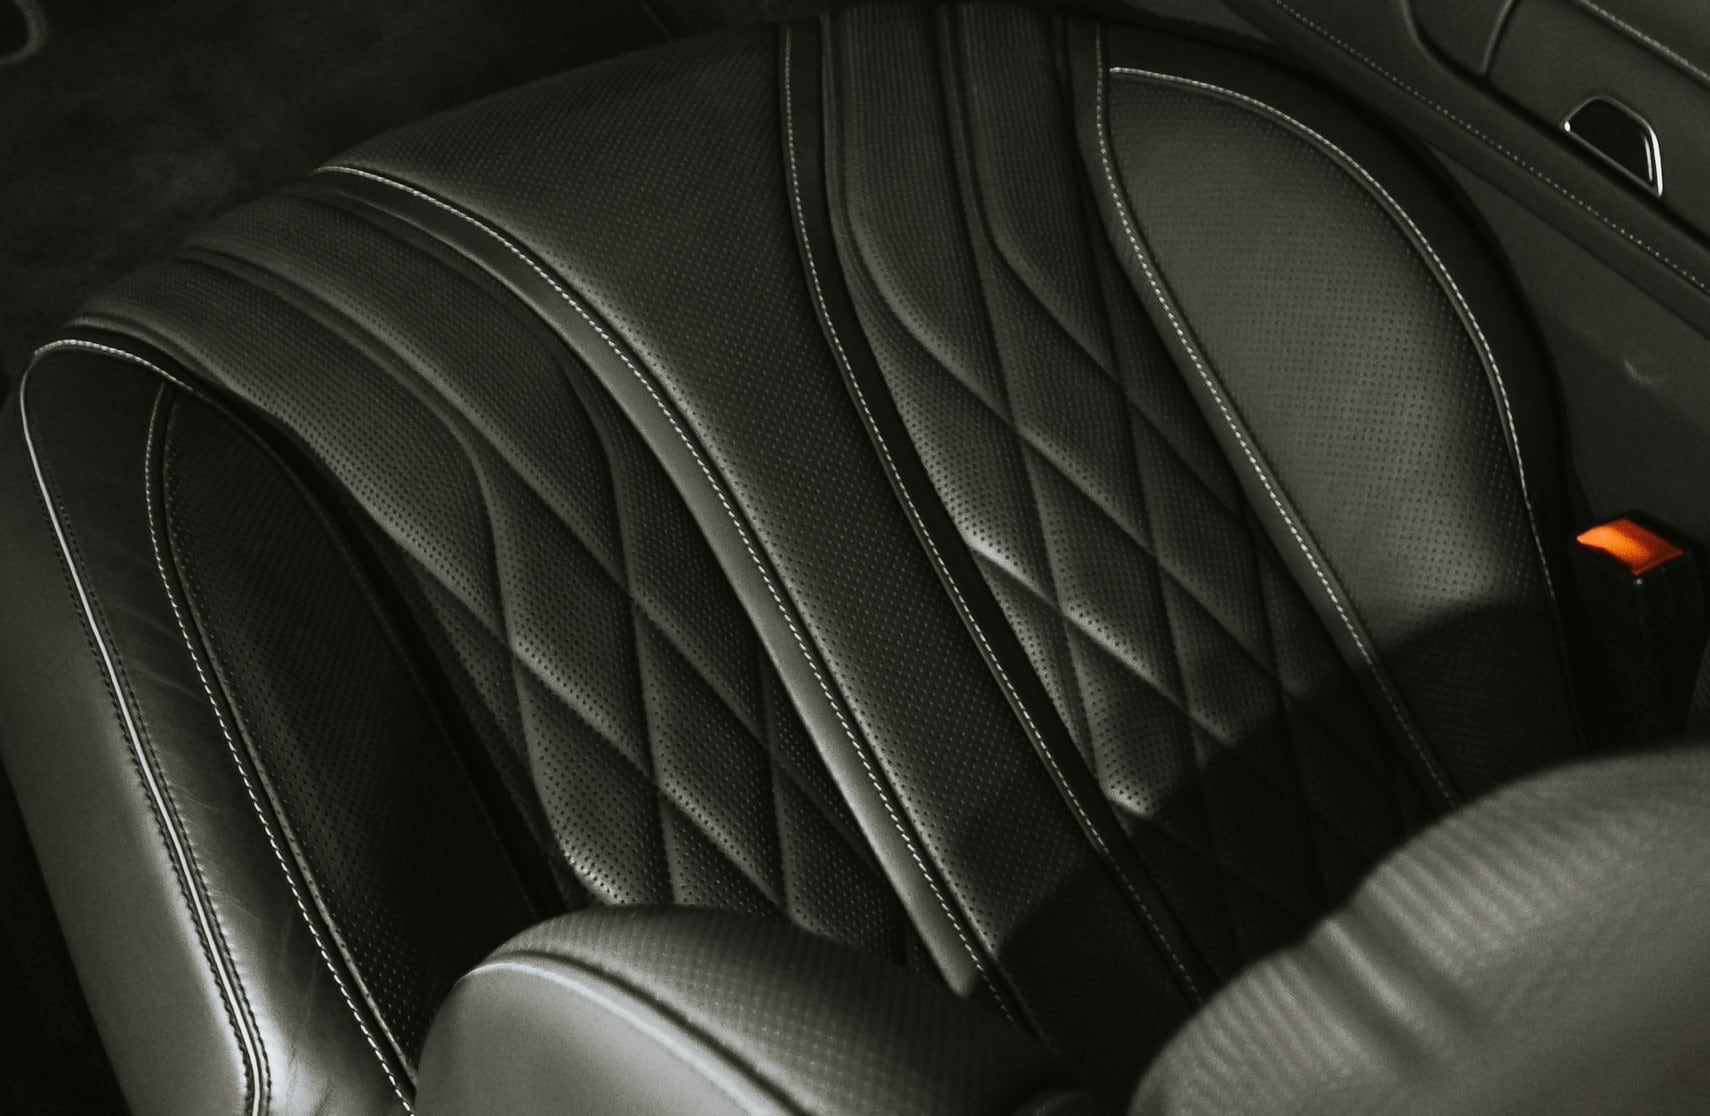
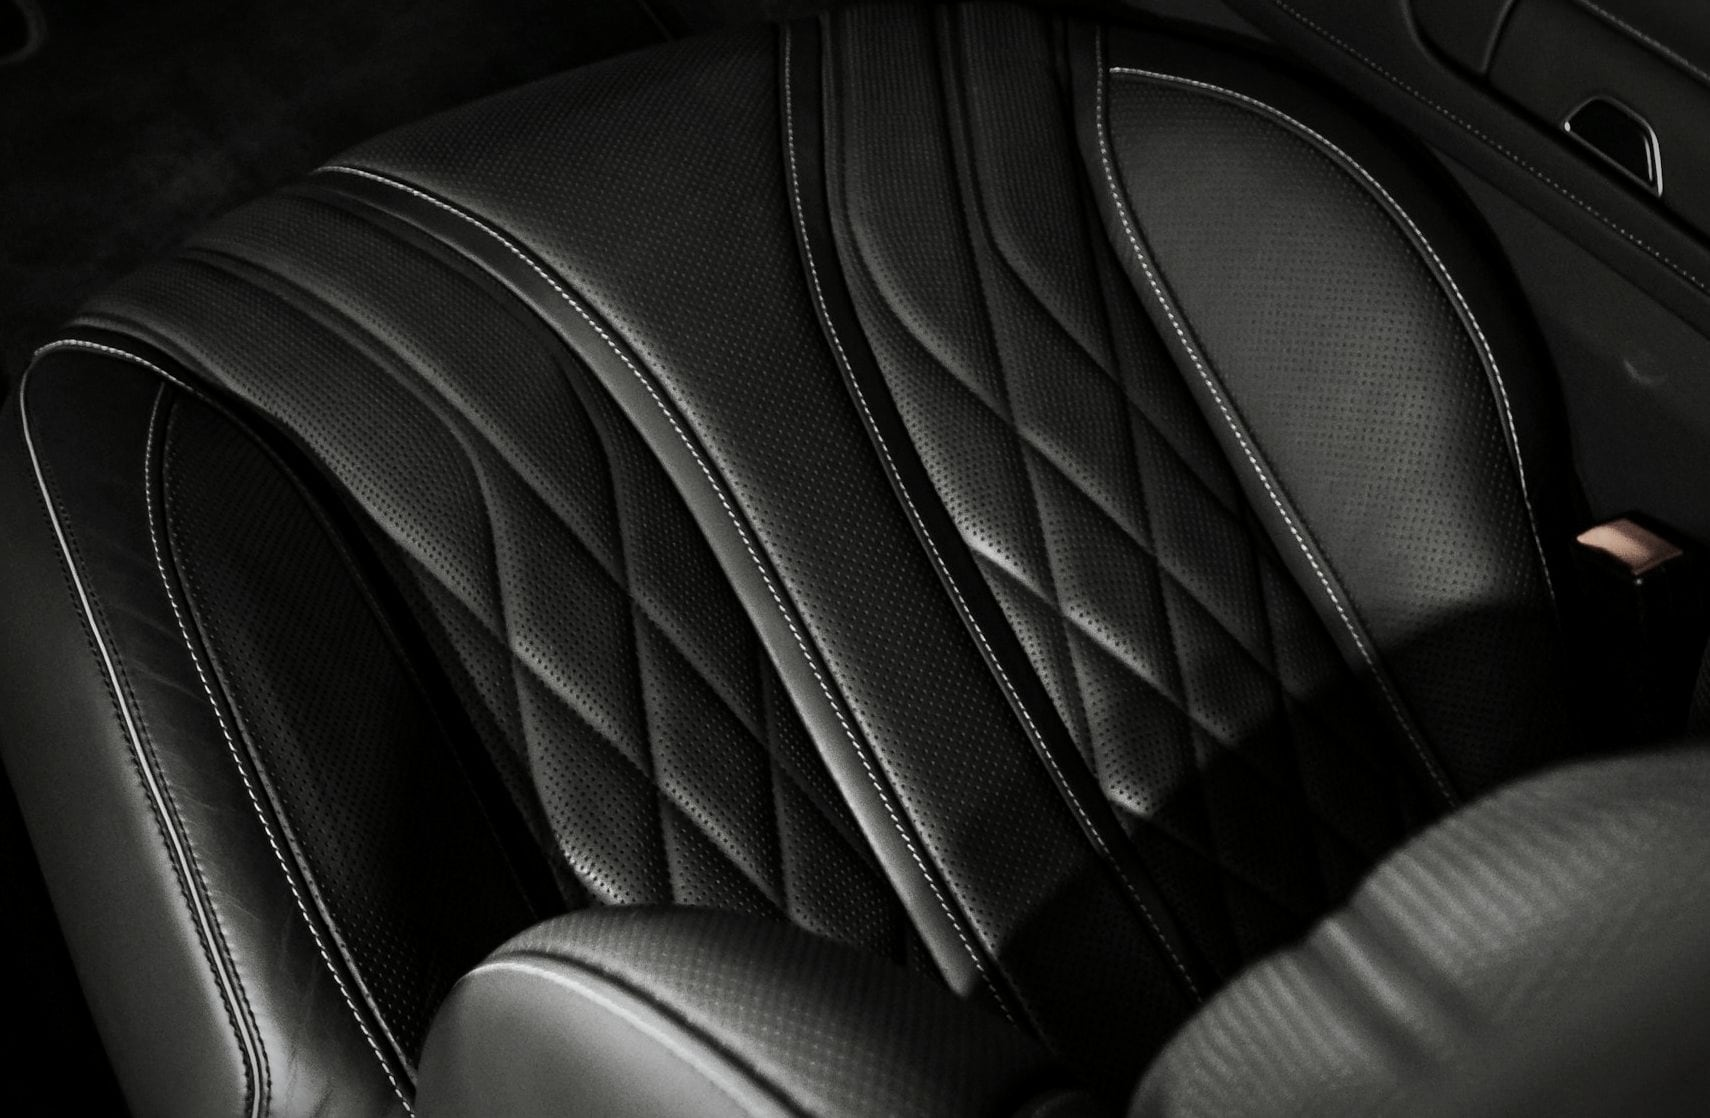
update services and anatomy photo series

diff --git a/src/content/media.ts b/src/content/media.ts
@@ -35,6 +35,12 @@ import trBeforeWide from "@/assets/media/transformation-before-wide.jpg";
 import trAfterTall from "@/assets/media/transformation-after-tall.jpg";
 import trBeforeTall from "@/assets/media/transformation-before-tall.jpg";
 import trSwirls from "@/assets/media/transformation-swirls.webp";
+import svcWash from "@/assets/media/service-wash.jpg";
+import svcCorrection from "@/assets/media/service-correction.jpg";
+import svcCeramic from "@/assets/media/service-ceramic.jpg";
+import svcPpf from "@/assets/media/service-ppf.jpg";
+import svcInterior from "@/assets/media/service-interior.jpg";
+import svcWheels from "@/assets/media/service-wheels.jpg";
 
 export type Media = {
   src: StaticImageData;
@@ -105,21 +111,27 @@ export const media = {
 } satisfies Record<string, Record<string, Media>>;
 
 /** Крупные планы для «Анатомии» — кропы из оригиналов тех же съёмок */
+/**
+ * Крупные планы для «Анатомии». Единая обработка запечена в файлы
+ * (как у фотосерии «Услуг»): цвет ~20%, контраст, виньетка — утилита `grade` не нужна.
+ * Форматы под геометрию кадров: фара 1.84:1, кузов 4:1, колесо 1:1,
+ * салон 1.53:1, отражение ~4.3:1, покрытие — полноэкранный 16:10.
+ */
 export const details = {
   headlight: {
     src: detailHeadlight,
-    alt: "Светодиодная фара BMW M4 крупным планом",
-    credit: "unsplash 1614026480209, кроп",
+    alt: "Светодиодная фара BMW M5 и глянцевый капот крупным планом",
+    credit: "unsplash 1683791738119, кроп",
   },
   body: {
     src: detailBody,
-    alt: "Линия плеча чёрного Mercedes в студийном свете",
-    credit: "unsplash 1485291571150, кроп",
+    alt: "Передок Porsche 911: световая полоса на капоте, фара и грань крыла",
+    credit: "unsplash 1727947347770, кроп",
   },
   wheel: {
     src: detailWheel,
-    alt: "Колёсный диск Mercedes в луче студийного света",
-    credit: "unsplash 1485291571150, кроп",
+    alt: "Колесо Porsche 911 RS: центральная гайка, спицы и суппорт",
+    credit: "unsplash 1637087867447, кроп",
   },
   interior: {
     src: detailInterior,
@@ -128,13 +140,13 @@ export const details = {
   },
   light: {
     src: detailLight,
-    alt: "Сквозная световая полоса и надпись PORSCHE на корме 911 Turbo S",
-    credit: "unsplash 1611651338412, кроп",
+    alt: "Силуэт чёрного Mercedes CLS: полоса студийного света вдоль линии кузова",
+    credit: "unsplash 1485291571150, кроп",
   },
   paint: {
     src: detailPaint,
-    alt: "Капли воды на крышке моторного отсека и заднем стекле Porsche 911",
-    credit: "unsplash 1611651338412, кроп",
+    alt: "Капли воды на тёмном лаке двери и ручке — макро",
+    credit: "unsplash 1550565076, кроп",
   },
 } satisfies Record<string, Media>;
 
@@ -158,3 +170,50 @@ export const transformationMedia = {
   swirls: trSwirls,
   credit: "unsplash 1611821064430",
 };
+
+/**
+ * Фотосерия «04 — Услуги». Единая обработка запечена в файлы:
+ * кадр 4:5 по композиции, приглушённый цвет (~20%), общая виньетка.
+ * Поэтому на эти кадры НЕ нужна утилита `grade`.
+ * position — кадрирование квадратной миниатюры на mobile/tablet
+ * (в кадре 4:5 на desktop изображение показывается целиком).
+ * Новые фото: 1200×1500, та же обработка — иначе серия развалится.
+ */
+export const serviceMedia = {
+  wash: {
+    src: svcWash,
+    alt: "BMW X6 под активной пеной в тёмном моечном боксе",
+    position: "58% 42%",
+    credit: "unsplash 1633014041037",
+  },
+  correction: {
+    src: svcCorrection,
+    alt: "Мастер полирует чёрный кузов, в отражении на панели видны голограммы",
+    position: "50% 30%",
+    credit: "unsplash 1708805282706 (паутина царапин добавлена при обработке)",
+  },
+  ceramic: {
+    src: svcCeramic,
+    alt: "Капли воды собираются в бусины на чёрном лаке после керамики",
+    position: "50% 40%",
+    credit: "unsplash 1608382247609",
+  },
+  ppf: {
+    src: svcPpf,
+    alt: "Нанесение защитной плёнки на фару Mercedes",
+    position: "40% 42%",
+    credit: "unsplash 1632823469850",
+  },
+  interior: {
+    src: svcInterior,
+    alt: "Руль Porsche GT: алькантара, красная строчка, переключатели режимов",
+    position: "40% 34%",
+    credit: "unsplash 1699325565626",
+  },
+  wheels: {
+    src: svcWheels,
+    alt: "Колесо Porsche: карбон-керамический диск, суппорт и центральная гайка",
+    position: "50% 50%",
+    credit: "unsplash 1695270939393",
+  },
+} satisfies Record<string, Media>;

diff --git a/src/content/site.ts b/src/content/site.ts
@@ -2,7 +2,7 @@
  * Тексты и данные сайта. Демонстрационный концепт:
  * контакты — заглушки, без реальных достижений, наград и клиентов.
  */
-import { details, media, type Media } from "./media";
+import { details, media, serviceMedia, type Media } from "./media";
 
 export const site = {
   name: "VANTA",
@@ -120,7 +120,7 @@ export const anatomy = {
       id: "headlight",
       title: "Фара",
       en: "Headlight",
-      source: "BMW M4",
+      source: "BMW M5",
       car: "bmw",
       text: "Поликарбонат мутнеет от ультрафиолета и песка. Полируем оптику и закрываем плёнкой — свет снова режет темноту.",
       note: "Оптика · полировка + PPF",
@@ -131,8 +131,8 @@ export const anatomy = {
       id: "body",
       title: "Кузов",
       en: "Body line",
-      source: "Mercedes CLS",
-      car: "mercedes",
+      source: "Porsche 911",
+      car: "porsche",
       text: "Линия плеча — место, где видна каждая волна лака. Коррекция идёт по свету, а не по таймеру.",
       note: "Лак · многоэтапная коррекция",
       image: details.body,
@@ -142,8 +142,8 @@ export const anatomy = {
       id: "wheel",
       title: "Колесо",
       en: "Wheel",
-      source: "Mercedes CLS",
-      car: "mercedes",
+      source: "Porsche 911 RS",
+      car: "porsche",
       text: "Тормозная пыль въедается в лак дисков. Снимаем колёса, чистим изнутри и защищаем керамикой.",
       note: "Диски · деконтаминация + керамика",
       image: details.wheel,
@@ -164,8 +164,8 @@ export const anatomy = {
       id: "light",
       title: "Отражение",
       en: "Reflection",
-      source: "Porsche 911 Turbo S",
-      car: "porsche",
+      source: "Mercedes CLS",
+      car: "mercedes",
       text: "Отражение — главный инструмент контроля. Если полоса света ломается на панели, работа не закончена.",
       note: "Контроль · инспекционный свет",
       image: details.light,
@@ -175,7 +175,7 @@ export const anatomy = {
       id: "paint",
       title: "Покрытие",
       en: "Coating",
-      source: "Porsche 911 Turbo S",
+      source: "Макро · лак",
       car: "porsche",
       text: "Керамика превращает воду в капли, а грязь — в гостя. Слой в пару микрон, который видно с первого дождя.",
       note: "ЛКП · керамическое покрытие",
@@ -228,7 +228,7 @@ export const services = {
       duration: "3–4 ч",
       price: "от 6 000 ₽",
       chapters: ["porsche", "bmw", "mercedes"],
-      image: details.paint,
+      image: serviceMedia.wash,
     },
     {
       id: "correction",
@@ -238,7 +238,7 @@ export const services = {
       duration: "1–3 дня",
       price: "от 35 000 ₽",
       chapters: ["porsche", "mercedes"],
-      image: details.body,
+      image: serviceMedia.correction,
     },
     {
       id: "ceramic",
@@ -248,7 +248,7 @@ export const services = {
       duration: "2–3 дня",
       price: "от 45 000 ₽",
       chapters: ["porsche", "bmw", "mercedes"],
-      image: details.light,
+      image: serviceMedia.ceramic,
     },
     {
       id: "ppf",
@@ -258,7 +258,7 @@ export const services = {
       duration: "2–5 дней",
       price: "от 90 000 ₽",
       chapters: ["porsche", "bmw"],
-      image: details.headlight,
+      image: serviceMedia.ppf,
     },
     {
       id: "interior",
@@ -268,7 +268,7 @@ export const services = {
       duration: "1 день",
       price: "от 18 000 ₽",
       chapters: ["mercedes"],
-      image: details.interior,
+      image: serviceMedia.interior,
     },
     {
       id: "wheels",
@@ -278,7 +278,7 @@ export const services = {
       duration: "1 день",
       price: "от 12 000 ₽",
       chapters: ["bmw", "mercedes"],
-      image: details.wheel,
+      image: serviceMedia.wheels,
     },
   ] satisfies Service[],
 };

diff --git a/src/components/sections/Services.tsx b/src/components/sections/Services.tsx
@@ -86,7 +86,8 @@ function StickyFrame({ current }: { current: number }) {
                 alt={i === current ? it.image.alt : ""}
                 fill
                 sizes="(min-width: 1024px) 38vw, 1px"
-                className="grade object-cover"
+                placeholder="blur"
+                className="object-cover"
               />
             </div>
           ))}
@@ -193,7 +194,14 @@ function Row({
 
         {/* Миниатюра (mobile / tablet) */}
         <div className="relative aspect-square self-start overflow-hidden lg:hidden">
-          <Image src={item.image.src} alt="" fill sizes="120px" className="grade object-cover" />
+          <Image
+            src={item.image.src}
+            alt=""
+            fill
+            sizes="120px"
+            style={{ objectPosition: item.image.position }}
+            className="object-cover"
+          />
         </div>
       </div>
     </li>

diff --git a/src/components/sections/Anatomy.tsx b/src/components/sections/Anatomy.tsx
@@ -16,9 +16,7 @@ import { MaskLine, Reveal } from "@/components/ui/Reveal";
 
 const ease = [0.22, 1, 0.36, 1] as const;
 /** Где на кадре горит фонарь — возвращаем ему цвет, как в главе I */
-const lampGlow: Partial<Record<Detail["id"], string>> = {
-  light: "ellipse_46%_5%_at_50%_46%",
-};
+const lampGlow: Partial<Record<Detail["id"], string>> = {};
 
 const lineColor: Record<Detail["car"], string> = {
   porsche: "#8e1f2d",
@@ -150,7 +148,8 @@ function Frame({ item, index, g }: { item: Detail; index: number; g: MotionValue
             alt={item.image.alt}
             fill
             sizes={item.reveal === "circle" ? "(min-width: 1024px) 64vh, 80vw" : "(min-width: 1024px) 60vw, 150vw"}
-            className="grade object-cover"
+            placeholder="blur"
+            className="object-cover"
           />
           {lampGlow[item.id] && (
             <div
